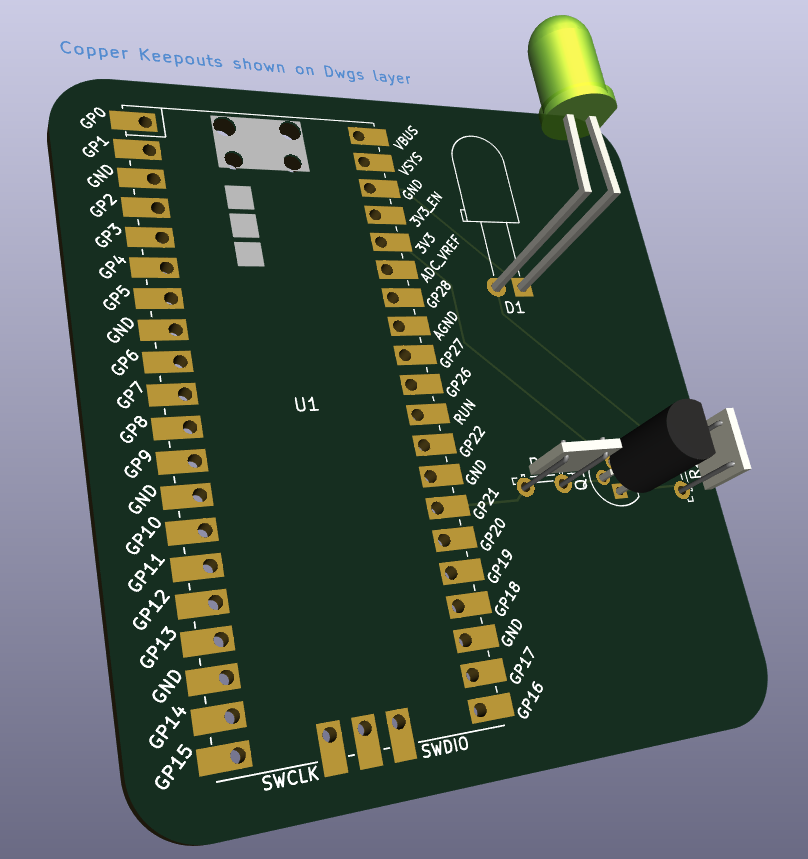
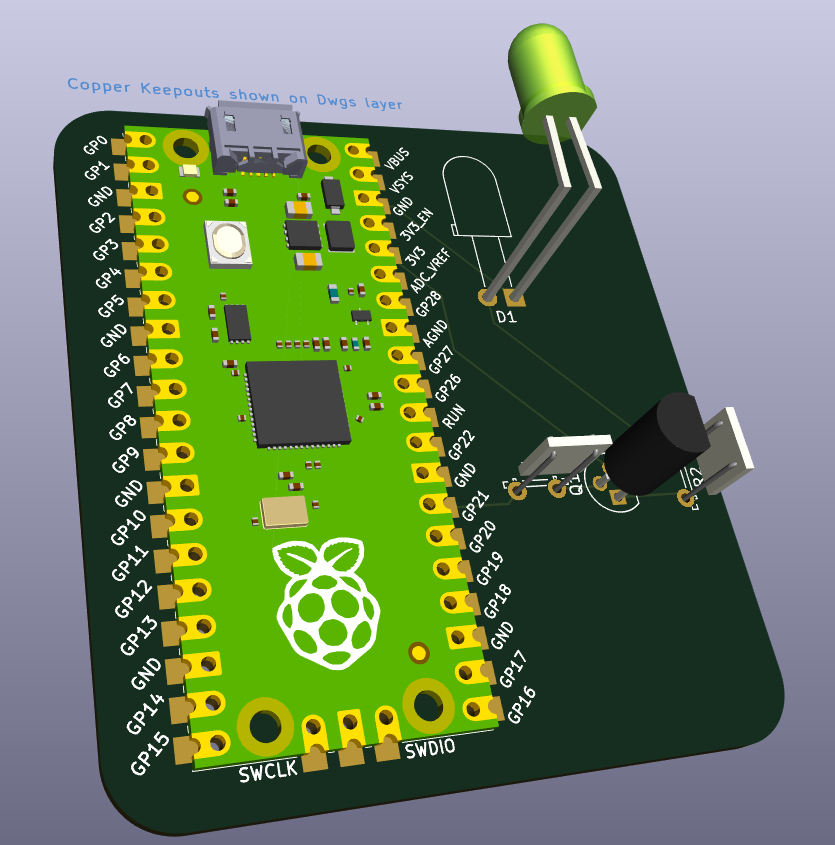
docs: fix 3d img & kicad info

diff --git a/README.md b/README.md
@@ -2,7 +2,7 @@
 
 Esse repositório armazena um projeto simples de PCB (Printed Circuit Board, ou Placa de Circuito Impresso em português) de um circuito para acender e apagar um LED a partir de um transistor e um Raspberry Pi Pico.
 
-Essa PCB foi projetada através do software Kicad.
+Essa PCB foi projetada através do software Kicad, que não tem suporte oficial para o Raspberry Pi Pico. Portanto, para abrir e visualizar os arquivos do projeto adequadamente, você deve seguir as instruções [neste outro respositório](https://github.com/ncarandini/KiCad-RP-Pico).
 
 ## Estrutura de pastas
 
